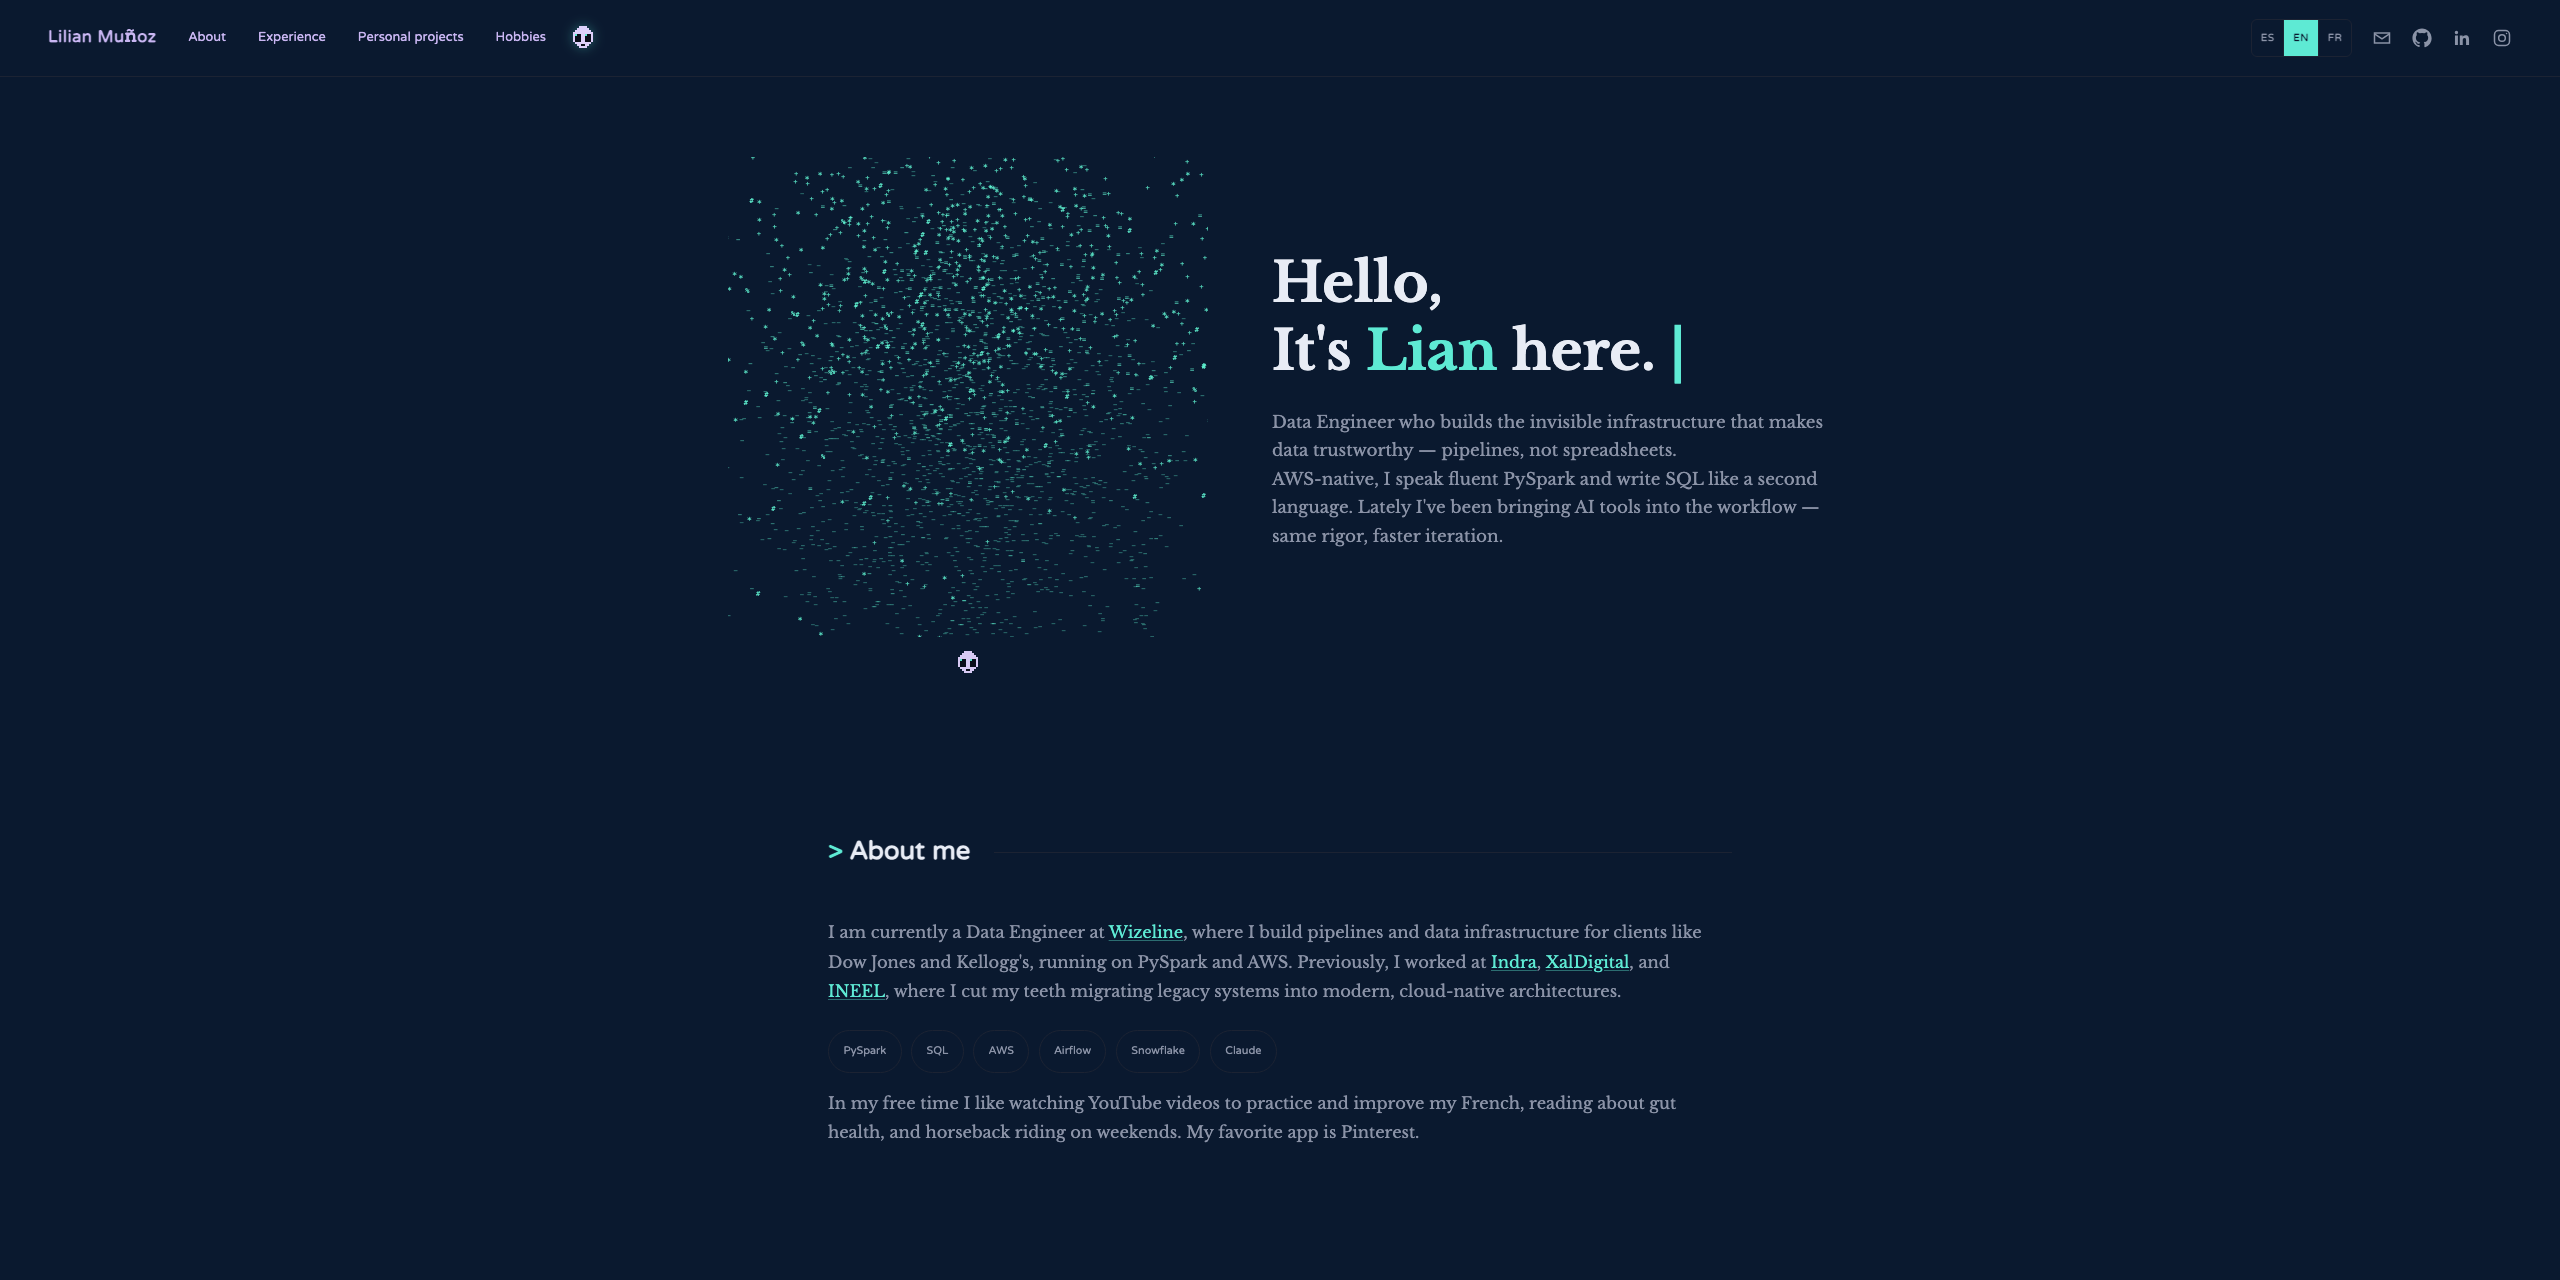
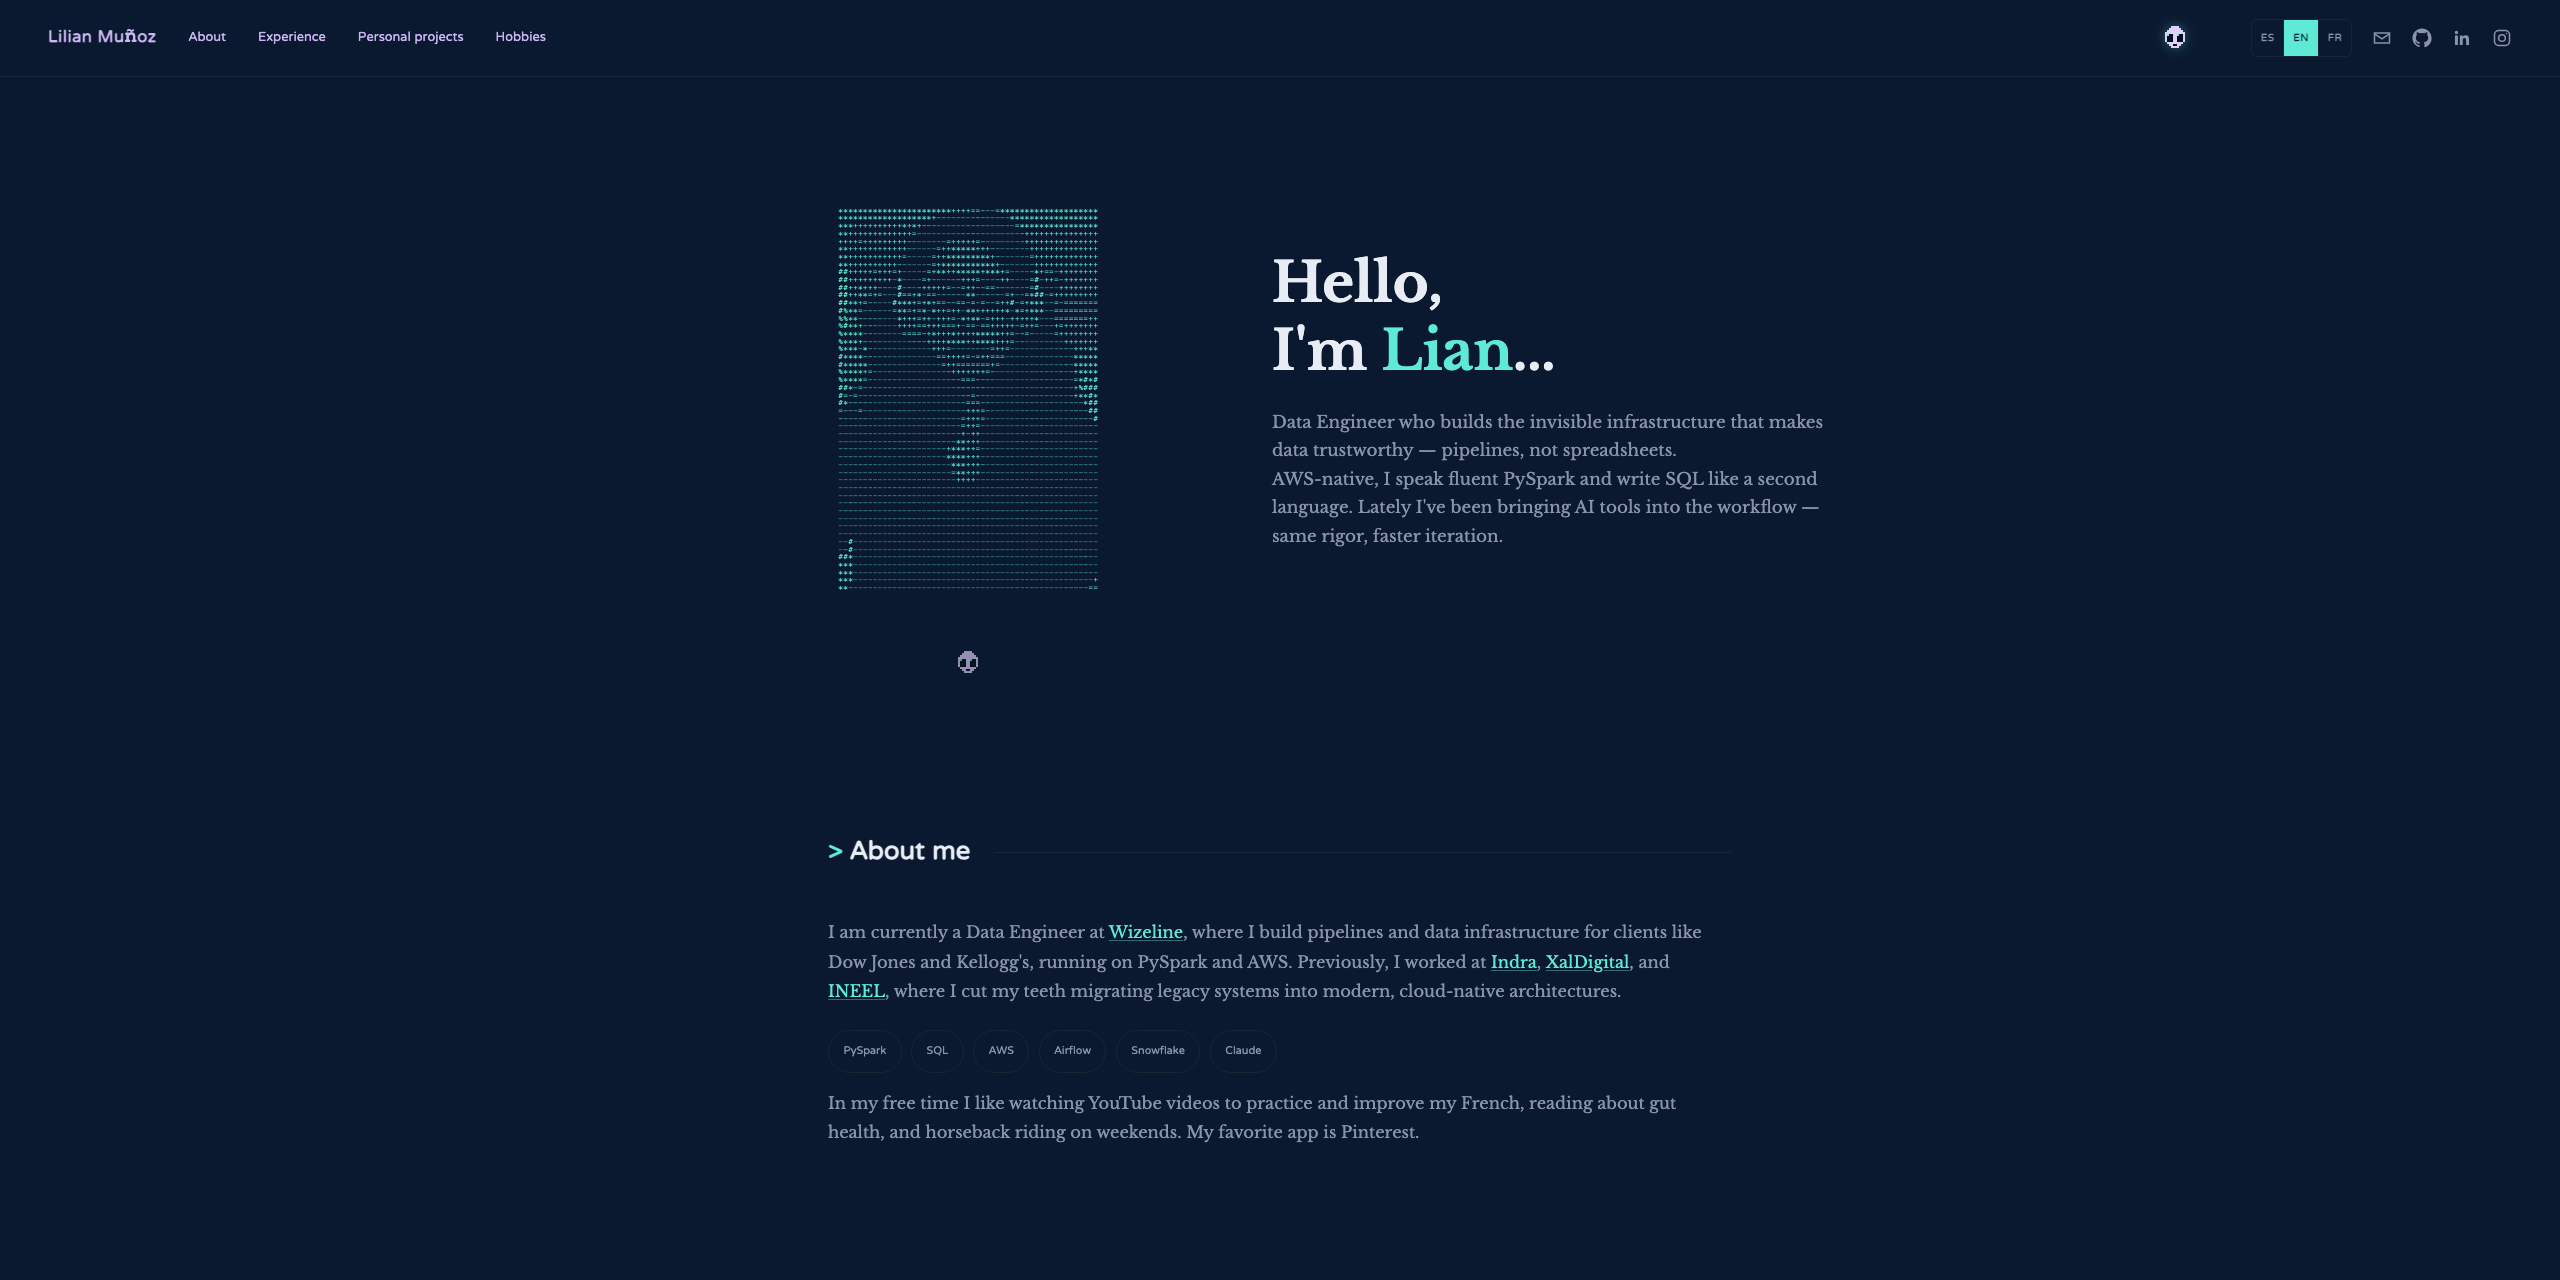
Update hero greeting to "Hello, I'm Lian..." and refresh README preview
- Change greeting across EN/ES/FR to "Hello, I'm Lian.../Hola, soy
  Lian.../Coucou, je suis Lian..." (previously "It's Lian here.").
- Regenerate assets/readme-preview.png with the ASCII portrait fully
  converged (captured after the particle spring physics settle in real
  time, not just after the fade-in timers).

Changed region(s): [[0.3125, 0.1562, 0.4375, 0.4688], [0.5, 0.25, 0.6562, 0.3125]]

diff --git a/script.js b/script.js
@@ -1315,7 +1315,7 @@ function floodFillBackground(cols, rows, isCandidate, inBounds) {
       "nav-projects": "Proyectos personales",
       "nav-hobbies": "Pasatiempos",
 
-      "greeting": 'Hola, <br> aquí <span class="accent">Lian</span>.',
+      "greeting": 'Hola, <br> soy <span class="accent">Lian</span>...',
       "subtext": `
           Ingeniera de Datos que construye la infraestructura invisible que hace que los datos sean confiables — pipelines, no hojas de cálculo. <br>
           Nativa de AWS, hablo PySpark con fluidez y escribo SQL como un segundo idioma. Últimamente he estado incorporando herramientas de IA a mi flujo de trabajo — el mismo rigor, con una iteración más rápida.
@@ -1406,7 +1406,7 @@ function floodFillBackground(cols, rows, isCandidate, inBounds) {
       "nav-projects": "Projets personnels",
       "nav-hobbies": "Loisirs",
 
-      "greeting": 'Coucou, <br> ici <span class="accent">Lian</span>.',
+      "greeting": 'Coucou, <br> je suis <span class="accent">Lian</span>...',
       "subtext": `
           Ingénieure de Données qui construit l'infrastructure invisible qui rend les données fiables — des pipelines, pas des feuilles de calcul. <br>
           Native AWS, je parle couramment PySpark et j'écris du SQL comme une seconde langue. Dernièrement, j'intègre des outils d'IA à mon flux de travail — la même rigueur, avec une itération plus rapide.

diff --git a/index.html b/index.html
@@ -98,7 +98,7 @@
       </div>
 
       <div class="hero-text">
-        <h1 class="greeting"><span data-i18n="greeting">Hello, <br> It's <span class="accent">Lian</span> here.</span> <span class="cursor">|</span></h1>
+        <h1 class="greeting"><span data-i18n="greeting">Hello, <br> I'm <span class="accent">Lian</span>...</span> <span class="cursor">|</span></h1>
         <p class="subtext" data-i18n="subtext">
           Data Engineer who builds the invisible infrastructure that makes data trustworthy — pipelines, not spreadsheets. <br>
           AWS-native, I speak fluent PySpark and write SQL like a second language. Lately I've been bringing AI tools into the workflow — same rigor, faster iteration.
